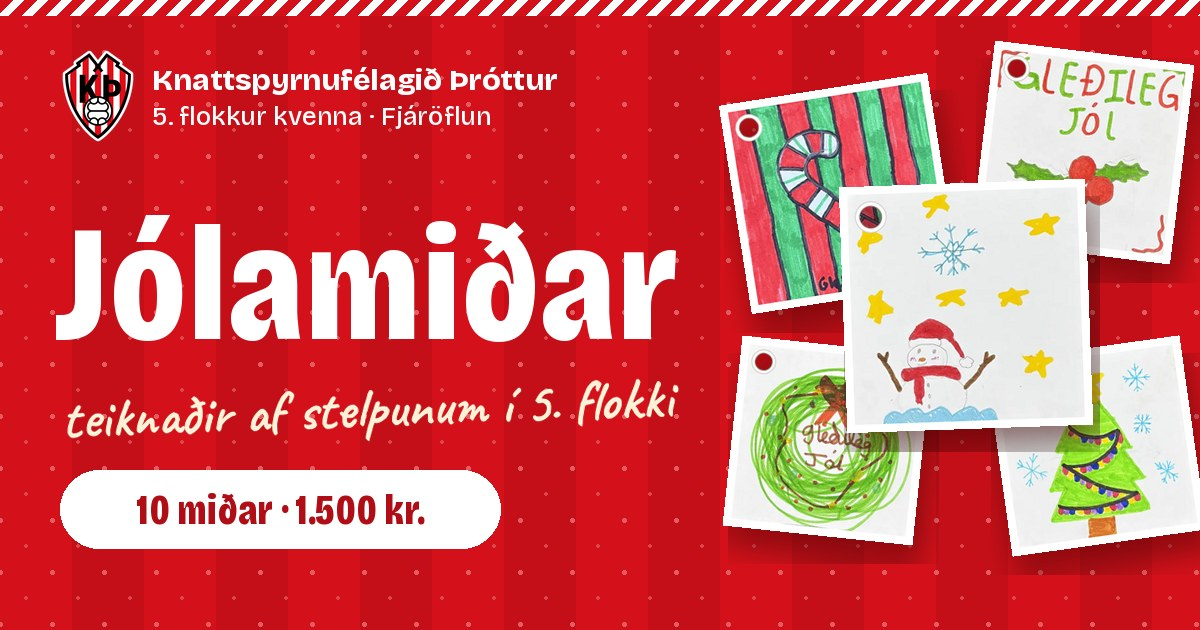
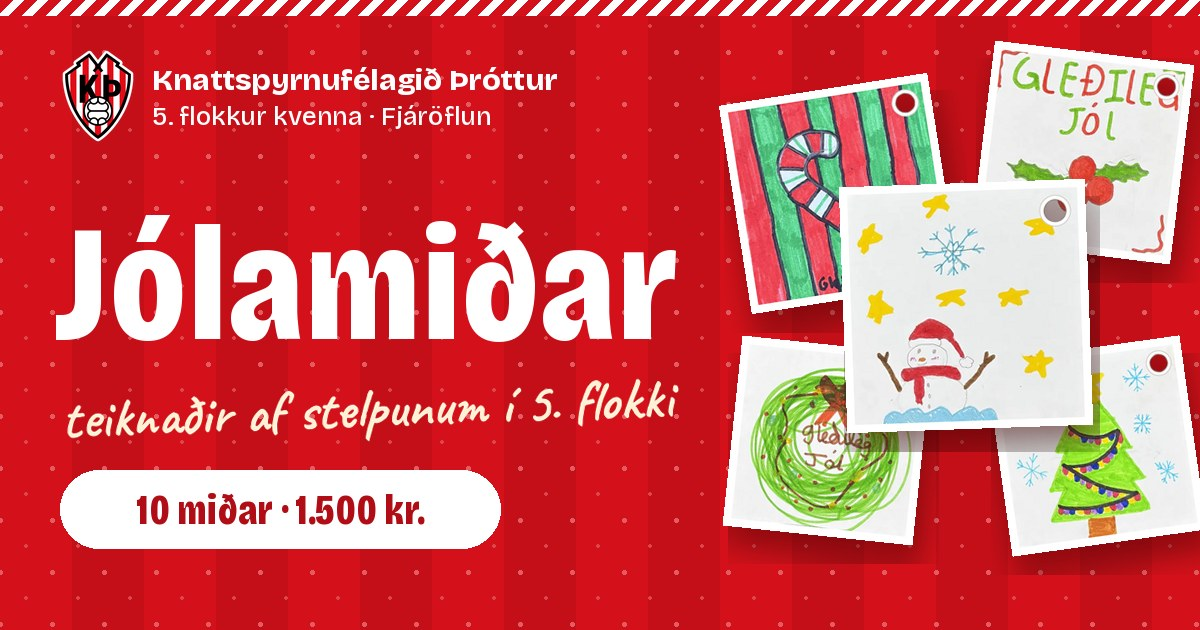
Gat í hægra horni, fjarlægja þakkartexta í fæti
Claude-Session: https://claude.ai/code/session_01RTBHPiWq3rwP7cPG2kR7GV

diff --git a/index.html b/index.html
@@ -70,13 +70,13 @@ h1{margin:22px 0 0;font-size:clamp(78px,12vw,178px);line-height:.84;font-weight:
 .collage{flex:1 1 420px;min-width:0;max-width:580px;position:relative;aspect-ratio:1/.95}
 .card{position:absolute;container-type:inline-size;filter:drop-shadow(0 12px 14px rgba(70,0,0,.38))}
 .card img,.paper img{display:block;width:100%;height:auto;aspect-ratio:1;object-fit:cover}
-/* miðinn sjálfur, með gati fyrir jólapakkasnæri efst í vinstra horni */
+/* miðinn sjálfur, með gati fyrir jólapakkasnæri efst í hægra horni */
 .paper{position:relative;background:#fff;padding:5px;border-radius:3px;
-  -webkit-mask:radial-gradient(circle at 12.5% 12.5%,transparent 0 4.3cqw,#000 calc(4.3cqw + .6px));
-  mask:radial-gradient(circle at 12.5% 12.5%,transparent 0 4.3cqw,#000 calc(4.3cqw + .6px))}
-.paper::after{content:"";position:absolute;left:12.5%;top:12.5%;width:13cqw;height:13cqw;transform:translate(-50%,-50%);border-radius:50%;
+  -webkit-mask:radial-gradient(circle at 87.5% 12.5%,transparent 0 4.3cqw,#000 calc(4.3cqw + .6px));
+  mask:radial-gradient(circle at 87.5% 12.5%,transparent 0 4.3cqw,#000 calc(4.3cqw + .6px))}
+.paper::after{content:"";position:absolute;left:87.5%;top:12.5%;width:13cqw;height:13cqw;transform:translate(-50%,-50%);border-radius:50%;
   background:radial-gradient(circle,transparent 0 4.3cqw,rgba(0,0,0,.28) calc(4.3cqw + .2px) calc(4.3cqw + 1.2px),#fff calc(4.3cqw + 1.4px) 6cqw,rgba(0,0,0,.16) calc(6cqw + .2px) calc(6cqw + 1px),transparent calc(6cqw + 1.4px))}
-.twine{position:absolute;left:-34%;top:-44%;width:62%;height:62%;overflow:visible;pointer-events:none;z-index:4}
+.twine{position:absolute;right:-34%;top:-44%;width:62%;height:62%;transform:scaleX(-1);overflow:visible;pointer-events:none;z-index:4}
 .twine path{fill:none;stroke-width:2.4;stroke-linecap:round}
 .twine .w{stroke:#fff}.twine .r{stroke:#D4111A;stroke-dasharray:3.2 3.2}
 .tape{position:absolute;top:-12px;left:30%;width:40%;height:24px;background:rgba(255,246,225,.8)}
@@ -253,11 +253,11 @@ footer{background:var(--green);color:var(--paper)}
 
       <div class="collage" aria-hidden="true">
         <div class="card" style="left:2%;top:4%;width:38%;transform:rotate(-9deg)"><div class="paper"><img src="assets/midar/midi-13.webp" alt=""></div><svg class="twine" viewBox="0 0 100 100" aria-hidden="true"><path class="w" d="M75 91C62 56 34 40 6 12"/><path class="r" d="M75 91C62 56 34 40 6 12"/><path class="w" d="M75 91C84 54 56 24 30 2"/><path class="r" d="M75 91C84 54 56 24 30 2"/></svg><span class="tape" style="transform:rotate(-4deg)"></span></div>
-        <div class="card" style="left:50%;top:0;width:36%;transform:rotate(7deg)"><div class="paper"><img src="assets/midar/midi-07.webp" alt=""></div><span class="tape" style="transform:rotate(5deg)"></span></div>
-        <div class="card" style="left:0;top:52%;width:34%;transform:rotate(6deg)"><div class="paper"><img src="assets/midar/midi-19.webp" alt=""></div><svg class="twine" viewBox="0 0 100 100" aria-hidden="true"><path class="w" d="M75 91C62 56 34 40 6 12"/><path class="r" d="M75 91C62 56 34 40 6 12"/><path class="w" d="M75 91C84 54 56 24 30 2"/><path class="r" d="M75 91C84 54 56 24 30 2"/></svg></div>
+        <div class="card" style="left:50%;top:0;width:36%;transform:rotate(7deg)"><div class="paper"><img src="assets/midar/midi-07.webp" alt=""></div><svg class="twine" viewBox="0 0 100 100" aria-hidden="true"><path class="w" d="M75 91C62 56 34 40 6 12"/><path class="r" d="M75 91C62 56 34 40 6 12"/><path class="w" d="M75 91C84 54 56 24 30 2"/><path class="r" d="M75 91C84 54 56 24 30 2"/></svg><span class="tape" style="transform:rotate(5deg)"></span></div>
+        <div class="card" style="left:0;top:52%;width:34%;transform:rotate(6deg)"><div class="paper"><img src="assets/midar/midi-19.webp" alt=""></div></div>
         <div class="card" style="left:64%;top:42%;width:34%;transform:rotate(10deg)"><div class="paper"><img src="assets/midar/midi-10.webp" alt=""></div></div>
         <div class="card" style="left:40%;top:64%;width:32%;transform:rotate(-5deg)"><div class="paper"><img src="assets/midar/midi-02.webp" alt=""></div></div>
-        <div class="card" style="left:27%;top:27%;width:42%;transform:rotate(-2deg);filter:drop-shadow(0 18px 20px rgba(70,0,0,.45))"><div class="paper"><img src="assets/midar/midi-05.webp" alt=""></div><svg class="twine" viewBox="0 0 100 100" aria-hidden="true"><path class="w" d="M75 91C62 56 34 40 6 12"/><path class="r" d="M75 91C62 56 34 40 6 12"/><path class="w" d="M75 91C84 54 56 24 30 2"/><path class="r" d="M75 91C84 54 56 24 30 2"/></svg><span class="tape" style="width:44%;left:28%;transform:rotate(-2deg)"></span></div>
+        <div class="card" style="left:27%;top:27%;width:42%;transform:rotate(-2deg);filter:drop-shadow(0 18px 20px rgba(70,0,0,.45))"><div class="paper"><img src="assets/midar/midi-05.webp" alt=""></div><span class="tape" style="width:44%;left:28%;transform:rotate(-2deg)"></span></div>
         <div class="collage-note">
           <svg width="54" height="48" viewBox="0 0 54 48" fill="none" stroke="#FFF1D6" stroke-width="3" stroke-linecap="round" stroke-linejoin="round"><path d="M50 40C38 42 22 36 14 14"/><path d="M6 20l8-8 6 10"/></svg>
           <span>35 ólíkar teikningar!</span>
@@ -415,10 +415,6 @@ footer{background:var(--green);color:var(--paper)}
   <div class="wrap foot">
     <div class="foot-brand">
       <img src="assets/merki.png" alt="Merki Þróttar" width="445" height="559">
-      <div>
-        <div class="foot-hand">Takk fyrir að styrkja stelpurnar!</div>
-        <p>Ágóðinn rennur óskiptur til 5. flokks kvenna í Þrótti.</p>
-      </div>
     </div>
     <div class="foot-contact">
       <div id="tengilidur" hidden><b>Spurningar um pöntun?</b><br><a id="tengilidur-a" href="#"></a></div>
